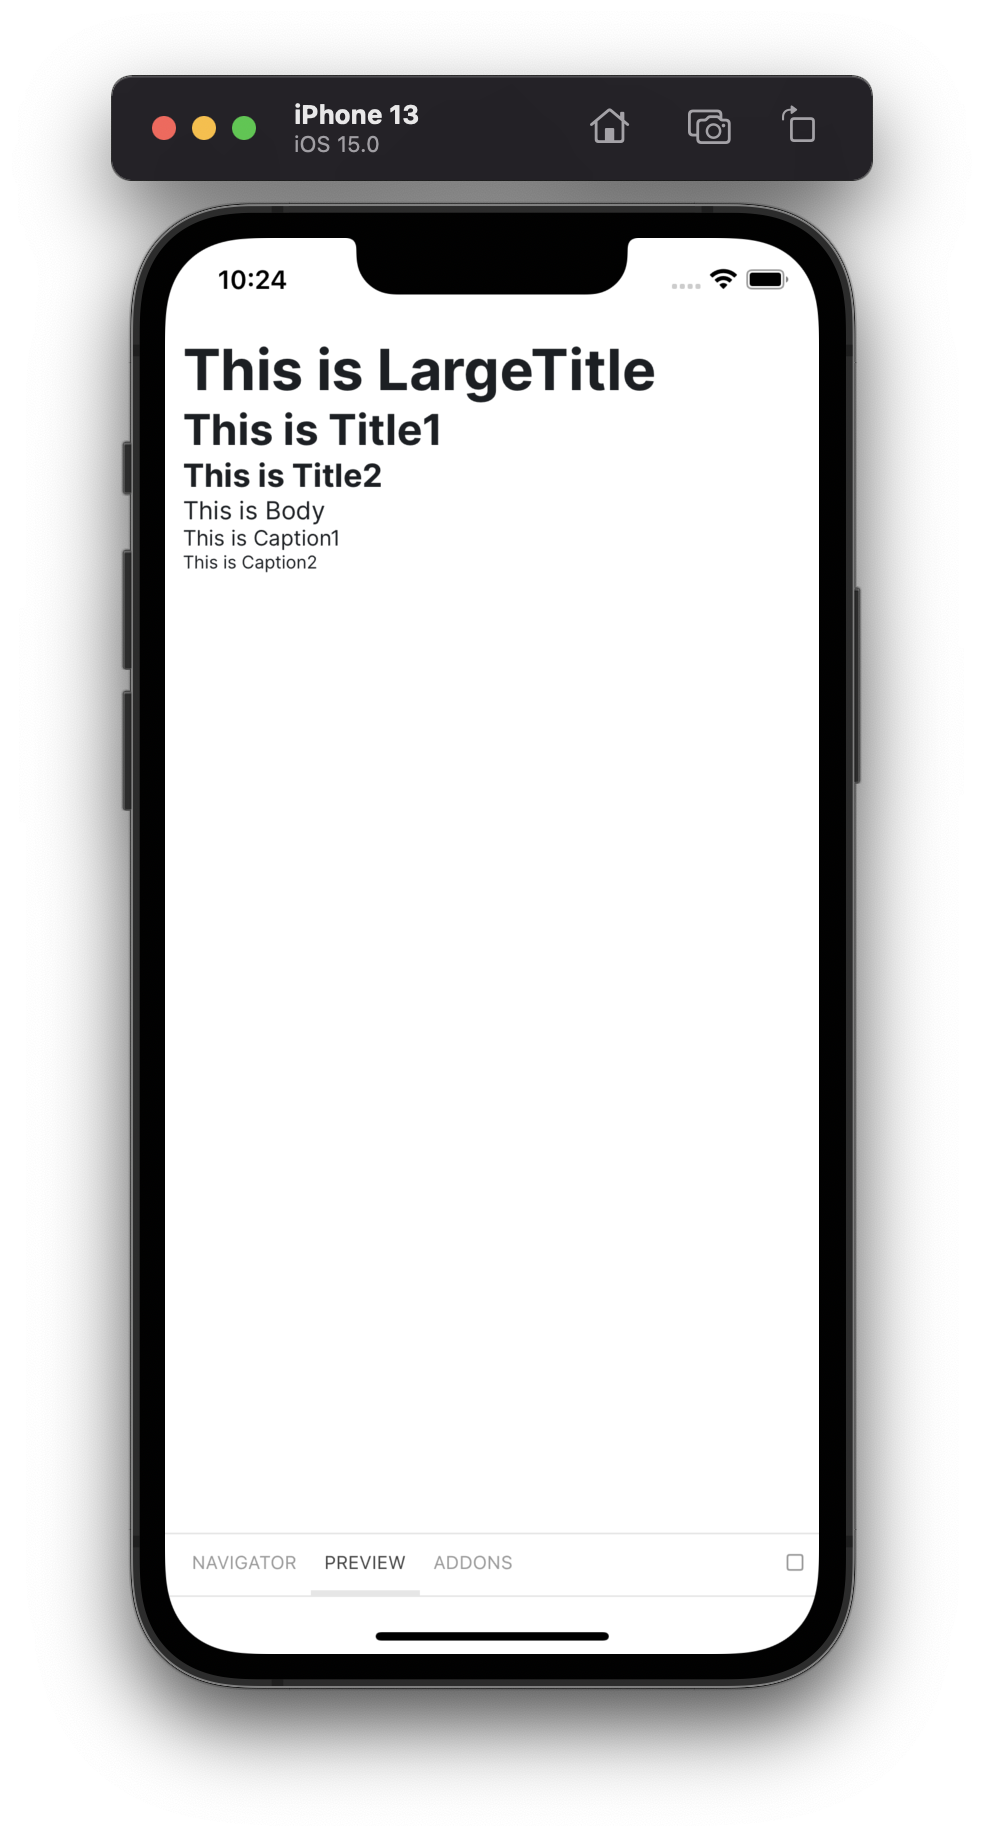
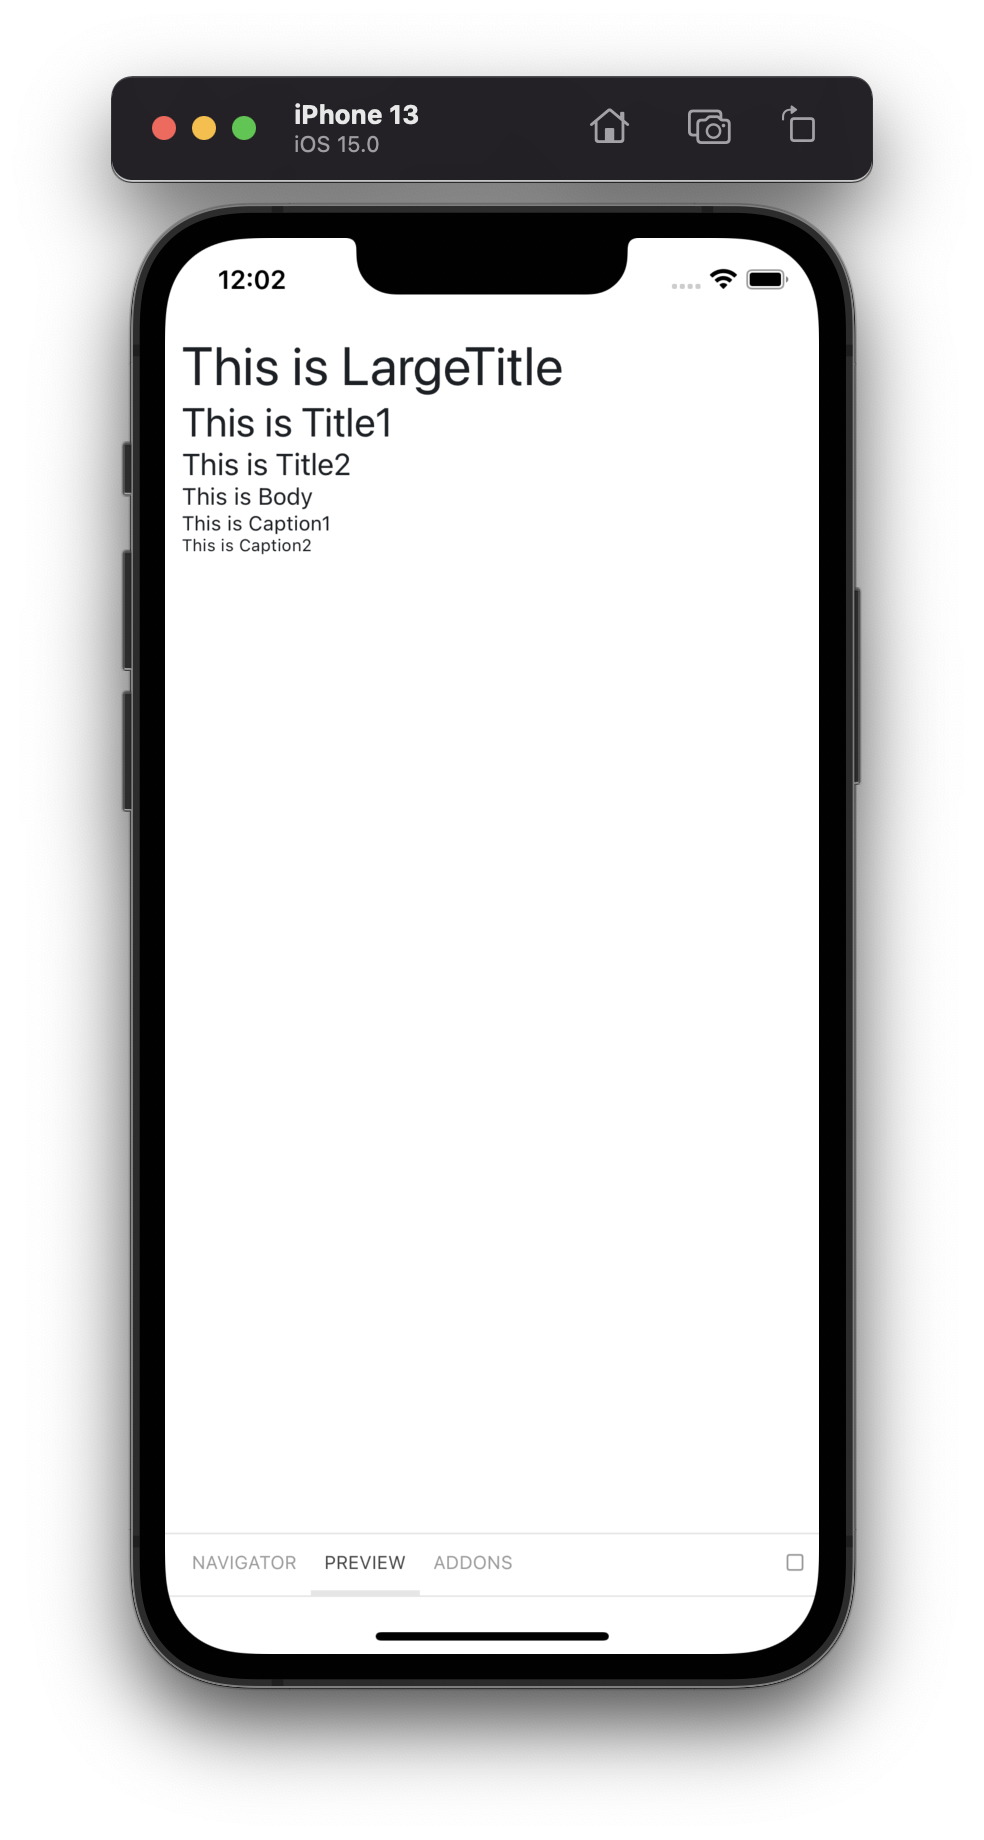
Updated font families with precise names.

Changed region(s): [[0.1829, 0.1859, 0.6707, 0.3098], [0.2439, 0.1239, 0.2744, 0.1549]]

diff --git a/lib/theme/index.js b/lib/theme/index.js
@@ -42,16 +42,16 @@ const baseTheme = {
     // We can add below commented fonts later as follows. Also add font faces in index.web.js for the web.
     // https://www.bigbinary.com/learn-react-native/adding-custom-fonats
 
-    // thin: "Inter-Thin",
-    // extraLight: "Inter-ExtraLight",
-    // light: "Inter-Light",
-    // medium: "Inter-Medium",
-    // semiBold: "Inter-SemiBold",
-    // extraBold: "Inter-ExtraBold",
-    // black: "Inter-Black",
+    // inter100: "Inter-Thin",
+    // inter200: "Inter-ExtraLight",
+    // inter300: "Inter-Light",
+    // inter500: "Inter-Medium",
+    // inter600: "Inter-SemiBold",
+    // inter800: "Inter-ExtraBold",
+    // inter900: "Inter-Black",
 
-    regular: "Inter-Regular",
-    bold: "Inter-Bold",
+    inter400: "Inter-Regular",
+    inter700: "Inter-Bold",
   },
   lineHeights: [24],
   fontSizes: {

diff --git a/storybook/stories/Typography.stories.js b/storybook/stories/Typography.stories.js
@@ -59,8 +59,8 @@ export const FontColors = () => {
 export const FontFamilies = () => {
   return (
     <Container>
-      <LargeTitle fontFamily="regular">Regular(weight:400)</LargeTitle>
-      <LargeTitle fontFamily="bold">Bold(weight:700)</LargeTitle>
+      <LargeTitle fontFamily="inter400">Inter Regular 400</LargeTitle>
+      <LargeTitle fontFamily="inter700">Inter Bold 700</LargeTitle>
     </Container>
   );
 };

diff --git a/lib/components/Typography/LargeTitle.js b/lib/components/Typography/LargeTitle.js
@@ -30,7 +30,7 @@ import { Typography } from "./Typography";
 
 export const LargeTitle = ({ children, ...rest }) => {
   return (
-    <Typography fontSize="largeTitle" fontFamily="bold" {...rest}>
+    <Typography fontSize="largeTitle" {...rest}>
       {children}
     </Typography>
   );

diff --git a/lib/components/Typography/Caption1.js b/lib/components/Typography/Caption1.js
@@ -30,7 +30,7 @@ import { Typography } from "./Typography";
 
 export const Caption1 = ({ children, ...rest }) => {
   return (
-    <Typography fontSize="caption1" fontFamily="regular" {...rest}>
+    <Typography fontSize="caption1" {...rest}>
       {children}
     </Typography>
   );

diff --git a/lib/components/Typography/Caption2.js b/lib/components/Typography/Caption2.js
@@ -30,7 +30,7 @@ import { Typography } from "./Typography";
 
 export const Caption2 = ({ children, ...rest }) => {
   return (
-    <Typography fontSize="caption2" fontFamily="regular" {...rest}>
+    <Typography fontSize="caption2" {...rest}>
       {children}
     </Typography>
   );

diff --git a/lib/components/Typography/Title1.js b/lib/components/Typography/Title1.js
@@ -30,7 +30,7 @@ import { Typography } from "./Typography";
 
 export const Title1 = ({ children, ...rest }) => {
   return (
-    <Typography fontSize="title1" fontFamily="bold" {...rest}>
+    <Typography fontSize="title1" {...rest}>
       {children}
     </Typography>
   );

diff --git a/lib/components/Typography/Title2.js b/lib/components/Typography/Title2.js
@@ -30,7 +30,7 @@ import { Typography } from "./Typography";
 
 export const Title2 = ({ children, ...rest }) => {
   return (
-    <Typography fontSize="title2" fontFamily="bold" {...rest}>
+    <Typography fontSize="title2" {...rest}>
       {children}
     </Typography>
   );

diff --git a/lib/components/Typography/Body.js b/lib/components/Typography/Body.js
@@ -30,7 +30,7 @@ import { Typography } from "./Typography";
 
 export const Body = ({ children, ...rest }) => {
   return (
-    <Typography fontSize="body" fontFamily="regular" {...rest}>
+    <Typography fontSize="body" {...rest}>
       {children}
     </Typography>
   );

diff --git a/docs/pages/4.theme.md b/docs/pages/4.theme.md
@@ -80,7 +80,7 @@ title: Theme
 ### Font Families & Font Sizes
 
 ```js
-<Typography fontSize={"largeTitle"} fontFamily={"bold"}>
+<Typography fontSize={"largeTitle"} fontFamily={"inter700"}>
   This is large bold text.
 </Typography>
 
@@ -125,7 +125,7 @@ title: Theme
 
 | Font name       | Prop Value | weight |
 | --------------- | ---------- | ------ |
-| `Inter-Regular` | `regular`  | 400    |
-| `Inter-Bold`    | `bold`     | 700    |
+| `Inter-Regular` | `inter400` | 400    |
+| `Inter-Bold`    | `inter700` | 700    |
 
 </td></tr> </table>

diff --git a/docs/pages/3.styled-system.md b/docs/pages/3.styled-system.md
@@ -49,7 +49,7 @@ Styled System provides subsets of `space` category: `margin` and `padding`.
 ## Typography
 
 ```js
-<Typography fontFamily={"bold"}> Text as bold </Typography>
+<Typography fontFamily={"inter700"}> Text as bold </Typography>
 ```
 
 | Prop            | CSS Property     | Theme Field      |
